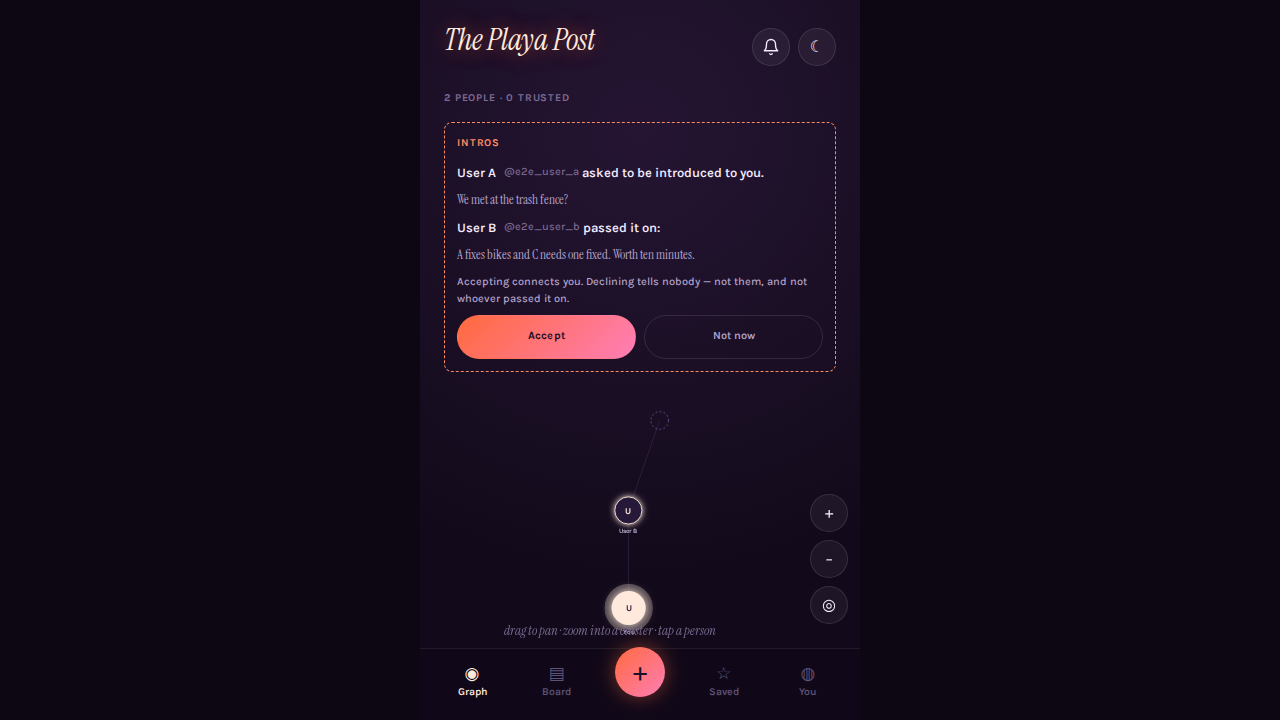
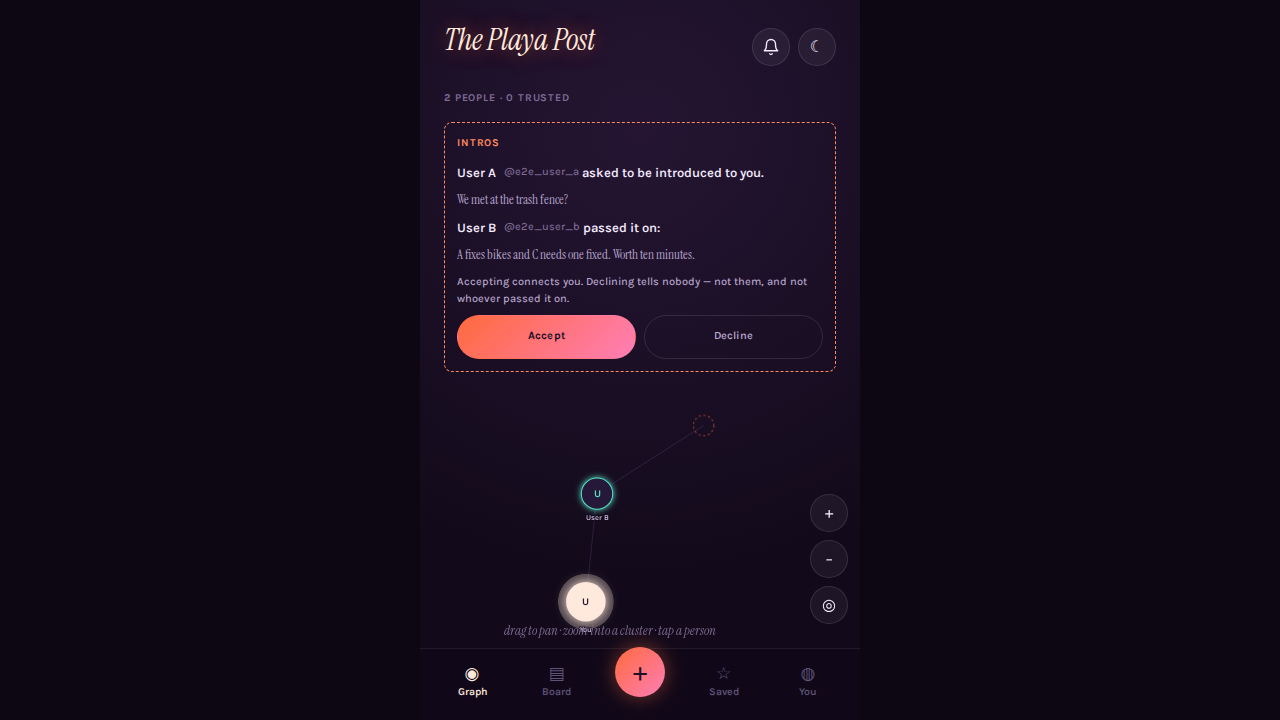
refactor(intros): review-pass fixes — honest Decline label, receipt-scoped 23505 catch, load-bearing ANSWERED_STATUSES
Four findings from the design review, none behavioral beyond copy:

- The target's decline control now says Decline, not "Not now" — the answer is
  terminal-once, and a label promising deferral would lie at the exact moment the
  reader decides whether to refuse. Confirmation line now says the introduction
  is closed. Screenshot re-captured from the live app.
- ConnectIntroducedPairHandler's unique-violation catch is now receipt-scoped
  (receiptWritten flag): a 23505 from a later write in the transaction fails the
  delivery instead of silently marking the event processed with no connection.
- ANSWERED_STATUSES is now load-bearing: the outbox read builds its passed_on
  mask from it via sql.join, so a third response status can never leak to the
  requester by missing a hand-written list.
- IntroAccepted's routing doc-comment no longer reads as implemented delivery to
  the requester; no consumer delivers it to them today.

Changed region(s): [[0.4375, 0.7944, 0.5312, 0.8861], [0.4375, 0.6417, 0.5, 0.7333], [0.5625, 0.4583, 0.5938, 0.4889]]

diff --git a/apps/server/src/modules/connections/persistence/postgres-connect-introduced-pair.handler.ts b/apps/server/src/modules/connections/persistence/postgres-connect-introduced-pair.handler.ts
@@ -101,6 +101,13 @@ export function createConnectIntroducedPairHandler(
       const pair = toIntroducedPair(event);
       const [userAId, userBId] = orderedPair(pair.requesterId, pair.targetId);
 
+      // Set the moment the receipt insert returns, so the catch below can tell a
+      // redelivery (the receipt's own unique violation — the only 23505 this transaction
+      // is allowed to swallow) from a unique violation raised by a *later* write, which
+      // must fail the delivery: swallowing one of those would mark the event processed
+      // with no connection formed and nothing owed.
+      let receiptWritten = false;
+
       try {
         await database.transaction().execute(async (transaction) => {
           await transaction
@@ -111,6 +118,7 @@ export function createConnectIntroducedPairHandler(
               processed_at: readClock(),
             })
             .execute();
+          receiptWritten = true;
 
           const inserted = await transaction
             .insertInto('app.connections')
@@ -171,7 +179,7 @@ export function createConnectIntroducedPairHandler(
             .execute();
         });
       } catch (error) {
-        if (isUniqueViolation(error)) {
+        if (!receiptWritten && isUniqueViolation(error)) {
           return;
         }
         throw error;

diff --git a/apps/web/src/app/intros/intro-copy.ts b/apps/web/src/app/intros/intro-copy.ts
@@ -100,14 +100,22 @@ export const INTRO_DECISION_CONFIRMATION_LINE = {
  */
 export const INTRO_RESPONSE_CONFIRMATION_LINE = {
   accept: 'Accepted — you are being connected. They will appear on your graph shortly.',
-  decline: 'Declined. Nobody is told, and nothing is connected.',
+  decline: 'Declined. Nobody is told, nothing is connected, and this introduction is closed.',
 } as const;
 
 /** The target's accept control. */
 export const INTRO_ACCEPT_LABEL = 'Accept';
 
-/** The target's decline control. */
-export const INTRO_TARGET_DECLINE_LABEL = 'Not now';
+/**
+ * The target's decline control.
+ *
+ * ⚠ **"Decline", not "Not now".** The answer is terminal-once — the row leaves the inbox,
+ * `target_declined` is final, and a second answer is refused — so a label promising
+ * deferral would be a lie told at the exact moment the reader is deciding whether to
+ * refuse. The consent argument this feature rests on requires the refusal control to mean
+ * what it says.
+ */
+export const INTRO_TARGET_DECLINE_LABEL = 'Decline';
 
 /**
  * The line above the target's two controls, before either is pressed.

diff --git a/apps/server/src/modules/intros/persistence/postgres-intro-request.repository.ts b/apps/server/src/modules/intros/persistence/postgres-intro-request.repository.ts
@@ -10,6 +10,7 @@ import {
 } from '../application/visible-intro';
 import type { VisibleIntrosRepository } from '../application/visible-intros.repository';
 import {
+  ANSWERED_STATUSES,
   INTRO_DECISION,
   INTRO_REQUEST_STATUS,
   STATUS_FOR_DECISION,
@@ -416,10 +417,9 @@ export function createPostgresIntroRequestRepository(
         with ${viewerWorld(viewerId)}
         select r.id                    as intro_request_id,
                case
-                 when r.status in (
-                        ${INTRO_REQUEST_STATUS.accepted}::text,
-                        ${INTRO_REQUEST_STATUS.targetDeclined}::text
-                      )
+                 when r.status in (${sql.join(
+                   [...ANSWERED_STATUSES].map((status) => sql`${status}::text`),
+                 )})
                  then ${INTRO_REQUEST_STATUS.passedOn}::text
                  else r.status
                end                     as status,

diff --git a/apps/server/src/modules/intros/domain/intro-request.events.ts b/apps/server/src/modules/intros/domain/intro-request.events.ts
@@ -73,9 +73,10 @@ export interface IntroDeclined extends IntroRequestEvent {
  * is the only check that can catch it, for the reason `NotePinned`'s consumer has one.
  *
  * The three party identifiers it already carried are exactly what the connection needs;
- * no field was added for the seam. Routed to the requester as well: their introduction was
- * accepted, and that is the one outcome they are entitled to be told about — the target
- * disclosed it by connecting.
+ * no field was added for the seam. May be routed to the requester as well — that is the
+ * one outcome they are entitled to be told about, the target having disclosed it by
+ * connecting — but no consumer delivers it to them today; they learn of it only by the
+ * edge appearing on their graph.
  */
 export interface IntroAccepted extends IntroRequestEvent {
   readonly type: typeof INTRO_ACCEPTED;

diff --git a/apps/server/src/modules/intros/domain/intro-request.ts b/apps/server/src/modules/intros/domain/intro-request.ts
@@ -116,7 +116,10 @@ export const STATUS_FOR_RESPONSE: Readonly<Record<IntroResponse, IntroRequestSta
  *
  * Derived from {@link STATUS_FOR_RESPONSE} rather than written out again, so "a request
  * the target has answered" cannot drift from "a status a response produces" — the two are
- * the same claim and a third response would otherwise need remembering in two places.
+ * the same claim and a third response would otherwise need remembering in two places. The
+ * outbox read (`postgres-intro-request.repository.ts`) builds its mask from this set, so a
+ * status a response produces can never leak to the requester merely because somebody
+ * forgot to add it to a hand-written list.
  */
 export const ANSWERED_STATUSES: ReadonlySet<IntroRequestStatus> = new Set(
   Object.values(STATUS_FOR_RESPONSE),
